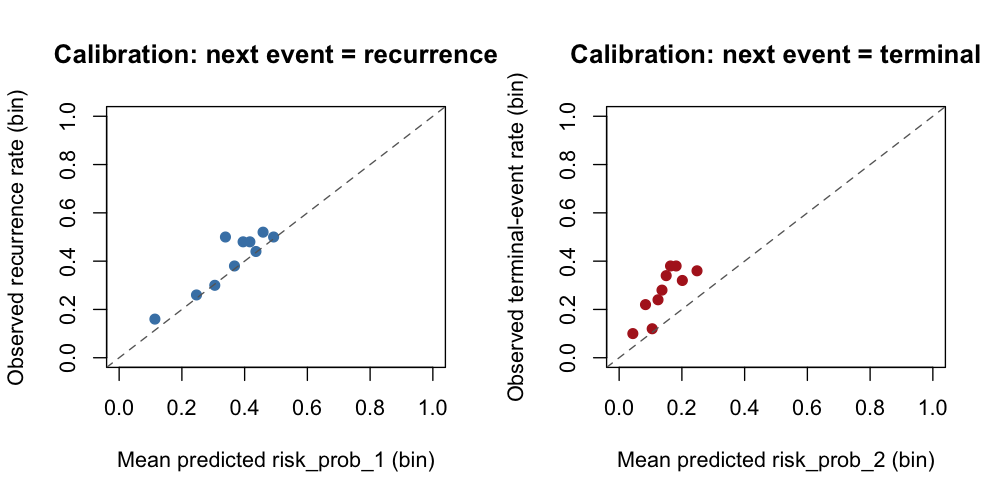
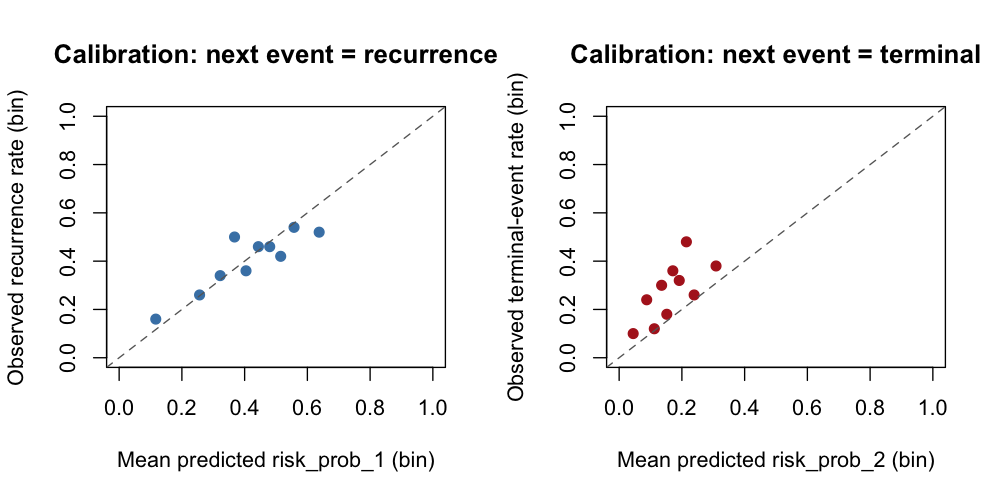
Rerun the recurrent-event calibration on the merged code; update NEWS numbers
After merging master (which rewrote the baseline-hazard extrapolation), the
calibration check gives: recurrence mean predicted 0.41 vs observed 0.40,
slope 0.63; terminal mean predicted 0.17 vs observed 0.27, slope 0.69. The
earlier slope of ~0.86 was measured on the old extrapolation code and no
longer applies, so NEWS.md is corrected to the new numbers.

Changed region(s): [[0.62, 0.48, 0.744, 0.66], [0.186, 0.45, 0.341, 0.6]]

diff --git a/NEWS.md b/NEWS.md
@@ -37,11 +37,13 @@
   recurrent-event-calibration.R` checks it under a correctly-specified
   simulated DGP (not part of the installed package): predicted and
   realized "next event" probabilities land close to the diagonal on a
-  binned calibration plot, with a logistic calibration slope around 0.86
-  for both the recurrence and the terminal-event probability -- reasonable
-  but not perfect, and this only checks that the code correctly implements
-  the intended Bayes combination under a correctly-specified model, not
-  robustness to real-world model misspecification. See
+  binned calibration plot, with a logistic calibration slope around 0.6-0.7
+  for both the recurrence and the terminal-event probability (1 would be
+  perfect; the terminal-event probability is also still about 10 points too
+  low on average) -- usable ranking, but visibly imperfect, from a single
+  500-subject test set and a single seed. This only checks that the code
+  implements the intended Bayes combination under a correctly-specified
+  model, not robustness to real-world model misspecification. See
   `?buildRecurrentEpisodes` for what it does and does not support (in
   particular, it predicts only the *next* event, not the total number of
   future recurrences), and for why the open (not-yet-resolved) episode's
